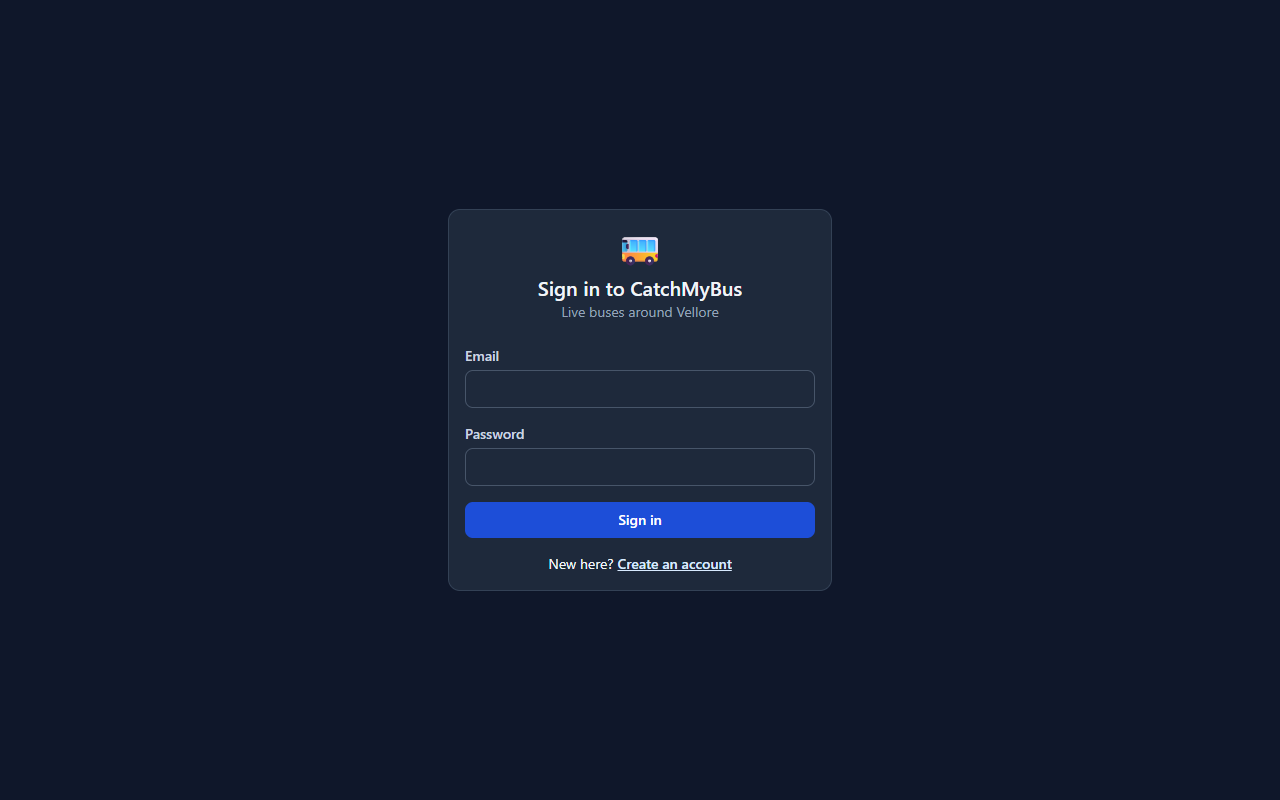
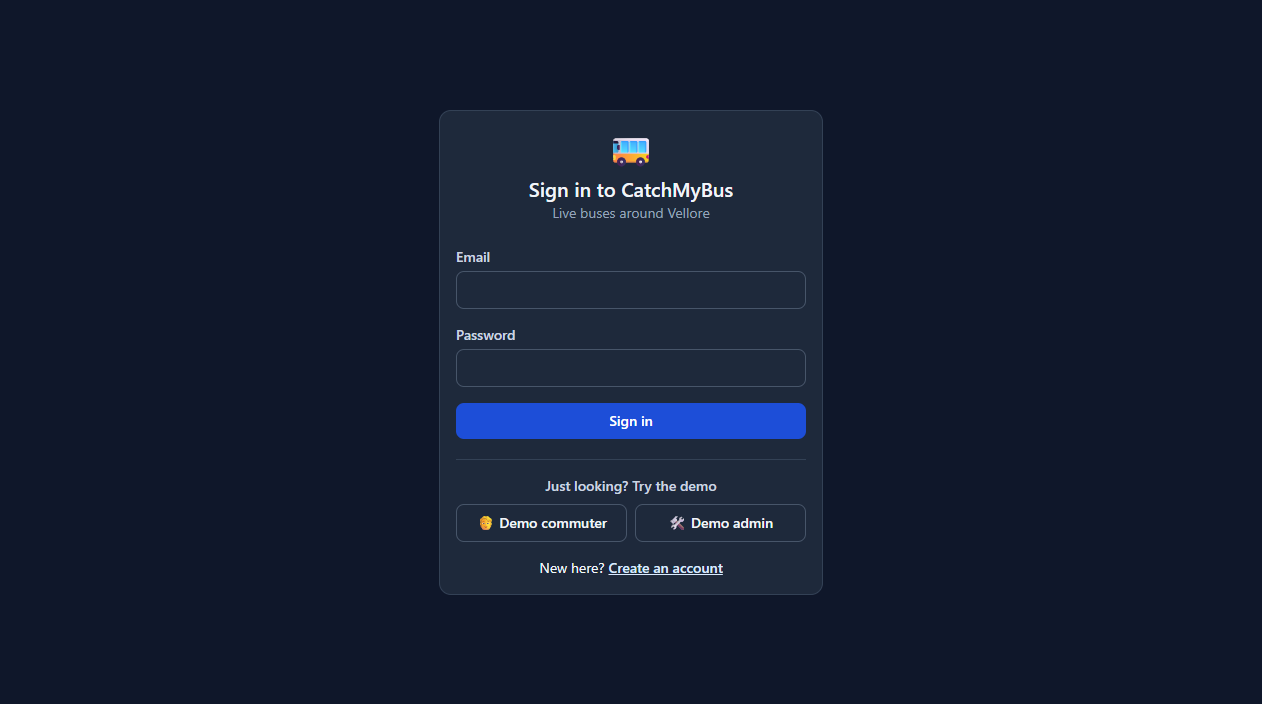
Add one-click demo sign-in
- Login page shows Demo commuter / Demo admin buttons when the server
  reports DEMO_LOGIN_ENABLED=true
- POST /auth/demo-login issues a token for the seeded accounts only,
  shares the login rate limit and returns 404 when disabled, so no
  password is ever shipped in the frontend
- Tests, README, DECISIONS and test report updated

diff --git a/frontend/src/pages/Login.tsx b/frontend/src/pages/Login.tsx
@@ -1,22 +1,27 @@
 import { useState, type FormEvent } from "react";
 import { Link, useNavigate } from "react-router-dom";
+import { useQuery } from "@tanstack/react-query";
+import { api } from "../lib/api";
 import { useAuth } from "../lib/auth";
+import type { User } from "../lib/types";
 
 /** One form for commuters and admins; the role comes back from the server (FR02, FR28). */
 export default function Login() {
-  const { login } = useAuth();
+  const { login, demoLogin } = useAuth();
   const navigate = useNavigate();
   const [email, setEmail] = useState("");
   const [password, setPassword] = useState("");
   const [error, setError] = useState<string | null>(null);
   const [busy, setBusy] = useState(false);
 
-  async function onSubmit(e: FormEvent) {
-    e.preventDefault();
+  // The server says whether one-click demo sign-in is switched on (DEMO_LOGIN_ENABLED).
+  const demo = useQuery({ queryKey: ["demo-login"], queryFn: () => api<{ enabled: boolean }>("/auth/demo"), retry: false });
+
+  async function signIn(attempt: () => Promise<User>) {
     setBusy(true);
     setError(null);
     try {
-      const user = await login(email, password);
+      const user = await attempt();
       navigate(user.role === "ADMIN" ? "/admin" : "/");
     } catch (err) {
       setError((err as Error).message);
@@ -24,6 +29,11 @@ export default function Login() {
       setBusy(false);
     }
   }
+
+  const onSubmit = (e: FormEvent) => {
+    e.preventDefault();
+    signIn(() => login(email, password));
+  };
 
   return (
     <AuthCard title="Sign in to CatchMyBus">
@@ -43,6 +53,21 @@ export default function Login() {
           {busy ? "Signing in…" : "Sign in"}
         </button>
       </form>
+      {demo.data?.enabled && (
+        <section aria-labelledby="demo-h" className="mt-5 border-t border-slate-200 pt-4 dark:border-slate-700">
+          <h2 id="demo-h" className="mb-2 text-center text-sm font-medium text-slate-600 dark:text-slate-300">
+            Just looking? Try the demo
+          </h2>
+          <div className="grid grid-cols-2 gap-2">
+            <button type="button" className="btn-ghost" disabled={busy} onClick={() => signIn(() => demoLogin("COMMUTER"))}>
+              🧑 Demo commuter
+            </button>
+            <button type="button" className="btn-ghost" disabled={busy} onClick={() => signIn(() => demoLogin("ADMIN"))}>
+              🛠 Demo admin
+            </button>
+          </div>
+        </section>
+      )}
       <p className="mt-4 text-center text-sm">
         New here? <Link to="/register" className="font-medium text-brand-600 underline dark:text-brand-100">Create an account</Link>
       </p>

diff --git a/frontend/src/lib/auth.tsx b/frontend/src/lib/auth.tsx
@@ -7,6 +7,7 @@ interface AuthState {
   loading: boolean;
   login: (email: string, password: string) => Promise<User>;
   register: (name: string, email: string, password: string, phone?: string) => Promise<User>;
+  demoLogin: (role: "COMMUTER" | "ADMIN") => Promise<User>;
   logout: () => void;
 }
 
@@ -40,6 +41,7 @@ export function AuthProvider({ children }: { children: ReactNode }) {
     login: (email, password) => post<TokenOut>("/auth/login", { email, password }).then(accept),
     register: (name, email, password, phone) =>
       post<TokenOut>("/auth/register", { name, email, password, phone: phone || null }).then(accept),
+    demoLogin: (role) => post<TokenOut>("/auth/demo-login", { role }).then(accept),
     logout: () => {
       tokenStore.set(null);
       setUser(null);

diff --git a/backend/app/routers/auth.py b/backend/app/routers/auth.py
@@ -7,7 +7,7 @@ from ..config import get_settings
 from ..db import get_db
 from ..models import User
 from ..ratelimit import RateLimiter
-from ..schemas import LoginIn, RegisterIn, TokenOut, UserOut
+from ..schemas import DemoLoginIn, LoginIn, RegisterIn, TokenOut, UserOut
 from ..security import create_token, get_current_user, hash_password, verify_password
 
 router = APIRouter(prefix="/auth", tags=["auth"])
@@ -35,6 +35,32 @@ def login(body: LoginIn, request: Request, db: Session = Depends(get_db)):
     user = db.scalar(select(User).where(User.email == body.email.lower()))
     if not user or not verify_password(body.password, user.password_hash):
         raise HTTPException(status.HTTP_401_UNAUTHORIZED, "Invalid email or password")
+    return TokenOut(access_token=create_token(user), user=UserOut.model_validate(user))
+
+
+@router.get("/demo")
+def demo_status():
+    """Tells the login page whether to show the one-click demo buttons."""
+    return {"enabled": get_settings().demo_login_enabled}
+
+
+@router.post("/demo-login", response_model=TokenOut)
+def demo_login(body: DemoLoginIn, request: Request, db: Session = Depends(get_db)):
+    """Sign in as a seeded demo account without typing a password.
+
+    Only works when DEMO_LOGIN_ENABLED=true, and only for the two seeded accounts, so
+    the frontend never needs to contain a password. Shares the login rate limit.
+    """
+    s = get_settings()
+    if not s.demo_login_enabled:
+        raise HTTPException(status.HTTP_404_NOT_FOUND, "Demo login is disabled")
+    ip = request.client.host if request.client else "unknown"
+    if not login_limiter.allow(ip):
+        raise HTTPException(status.HTTP_429_TOO_MANY_REQUESTS, "Too many login attempts, try again in a minute")
+    email = s.seed_admin_email if body.role == "ADMIN" else s.seed_commuter_email
+    user = db.scalar(select(User).where(User.email == email.lower(), User.role == body.role))
+    if user is None:
+        raise HTTPException(status.HTTP_404_NOT_FOUND, "Demo account not found - run `make seed`")
     return TokenOut(access_token=create_token(user), user=UserOut.model_validate(user))
 
 

diff --git a/backend/tests/test_auth.py b/backend/tests/test_auth.py
@@ -71,3 +71,22 @@ def test_api_prefix_is_stripped_for_vercel_routing(client, commuter_headers):
     assert client.get("/apix/health").status_code == 404  # only the exact prefix is stripped
     with client.websocket_connect("/api/ws/tracking?token=" + commuter_headers["Authorization"].split()[1]) as ws:
         assert ws.receive_json()["type"] == "positions"
+
+
+def test_demo_login_disabled_by_default(client):
+    assert client.get("/auth/demo").json() == {"enabled": False}
+    assert client.post("/auth/demo-login", json={"role": "COMMUTER"}).status_code == 404
+
+
+def test_demo_login_signs_in_seeded_accounts(client, monkeypatch):
+    from app.config import get_settings
+
+    monkeypatch.setattr(get_settings(), "demo_login_enabled", True)
+    assert client.get("/auth/demo").json() == {"enabled": True}
+    r = client.post("/auth/demo-login", json={"role": "COMMUTER"})
+    assert r.status_code == 200 and r.json()["user"]["email"] == "arun@mail.com"
+    admin = client.post("/auth/demo-login", json={"role": "ADMIN"}).json()
+    assert admin["user"]["role"] == "ADMIN"
+    h = {"Authorization": f"Bearer {admin['access_token']}"}
+    assert client.get("/admin/buses", headers=h).status_code == 200
+    assert client.post("/auth/demo-login", json={"role": "ROOT"}).status_code == 422

diff --git a/backend/app/config.py b/backend/app/config.py
@@ -37,6 +37,9 @@ class Settings(BaseSettings):
     delay_alert_threshold_min: float = 10.0
     alert_check_seconds: float = 5.0
 
+    # One-click "demo commuter / demo admin" sign-in on the login page. Off unless enabled.
+    demo_login_enabled: bool = False
+
     seed_admin_email: str = "admin@catchmybus.com"
     seed_admin_password: str = ""
     seed_commuter_email: str = "arun@mail.com"

diff --git a/backend/tests/conftest.py b/backend/tests/conftest.py
@@ -5,6 +5,7 @@ os.environ.update({
     "DATABASE_URL": "sqlite://",
     "SIMULATOR_ENABLED": "false",
     "SIM_RANDOM_DELAYS": "false",
+    "DEMO_LOGIN_ENABLED": "false",
     "JWT_SECRET": "test-secret-not-for-production",
     "SEED_ADMIN_PASSWORD": "AdminPass1",
     "SEED_COMMUTER_PASSWORD": "ArunPass1",

diff --git a/backend/app/schemas.py b/backend/app/schemas.py
@@ -31,6 +31,10 @@ class LoginIn(BaseModel):
     password: str
 
 
+class DemoLoginIn(BaseModel):
+    role: Literal["COMMUTER", "ADMIN"]
+
+
 class UserOut(ORM):
     id: int
     name: str

diff --git a/README.md b/README.md
@@ -138,18 +138,26 @@ the source code.
 These are the defaults in `.env.example` (`SEED_ADMIN_PASSWORD`, `SEED_COMMUTER_PASSWORD`).
 Both roles sign in through the same login form, and the server decides the role.
 
+**One-click demo sign-in.** With `DEMO_LOGIN_ENABLED=true` (the default in `.env.example`),
+the login page shows **Demo commuter** and **Demo admin** buttons, so no one has to type
+credentials during a demo. The buttons call `POST /auth/demo-login`, which only signs in
+the two seeded accounts. The frontend never contains a password. Set
+`DEMO_LOGIN_ENABLED=false` for any real deployment, and the buttons disappear.
+
+![Login with demo buttons](docs/screenshots/01-login.png)
+
 ## 5-minute demo script
 
 Open two browser windows side by side: **A** (normal) and **B** (private/incognito).
 
 | Time | Step | What to show |
 |---|---|---|
-| 0:00 | **A:** log in as `arun@mail.com`. | Live map: six buses glide along three coloured routes around Katpadi and Vellore. |
+| 0:00 | **A:** click **Demo commuter** on the login page (or sign in as `arun@mail.com`). | Live map: six buses glide along three coloured routes around Katpadi and Vellore. |
 | 0:30 | **A:** click **Use demo location** and open *Gandhi Nagar*. | Nearby stops within the radius, with live arrivals per bus. Click **Use my location** to show the privacy note and consent dialog first. |
 | 1:00 | **A:** click a bus marker. | Bus page: crowd badge, live speed and load, predicted delay, and an ETA per stop that falls every few seconds as the bus approaches. |
 | 1:30 | **A:** in the header, switch **Demo time** between *Weekday 08:30 (peak)* and *Weekday 14:00*. | The crowd badges change (more *High* at 08:30). The coloured dots on the map change too. |
 | 2:00 | **A:** on the bus page, click **Set alert**, pick a stop about 6-8 min away and set 5 min. | When the ETA reaches 5 min, the bell count goes up and a toast appears. |
-| 2:30 | **B:** log in as `admin@catchmybus.com`, go to **Admin → Live ops**, choose the same bus, 15 min, **Inject delay**. | Within about 5 s, window **A** gets a *delay* toast. The bus stops on the map and its ETA jumps by about 15 min. |
+| 2:30 | **B:** click **Demo admin**, go to **Admin → Live ops**, choose the same bus, 15 min, **Inject delay**. | Within about 5 s, window **A** gets a *delay* toast. The bus stops on the map and its ETA jumps by about 15 min. |
 | 3:15 | **A:** go back to the map, pick *Gandhi Nagar → Green Circle*, and click **Search routes**. | Best-route ranking with score bars (time, walking, crowding, delay risk). |
 | 3:45 | **A:** press **SOS** and then **Send SOS**. | Success state in **A**. In **B** the SOS appears in the live feed and as a toast. Click **Mark resolved**. |
 | 4:15 | **B:** go to **Fleet**, edit a bus's capacity, then open **Audit log**. | The edit shows with timestamp, admin id and the before/after change. Swagger also shows `/admin/*` returning **403** for a commuter token. |
@@ -159,7 +167,7 @@ Screenshots of every step are in [docs/screenshots](docs/screenshots).
 
 ## API summary
 
-All endpoints except `/health`, `/auth/register` and `/auth/login` need
+All endpoints except `/health` and the `/auth/register`, `/auth/login` and `/auth/demo*` endpoints need
 `Authorization: Bearer <JWT>`. `/admin/*` needs the ADMIN role and returns 403 for anyone
 else. List endpoints accept `?page=&size=`. The AI endpoints read an optional
 `X-Demo-Time` header: `08:30` means that time on a weekday, and `Sat 12:00` picks a day.
@@ -167,7 +175,7 @@ The full interactive spec is at `/docs`.
 
 | Area | Endpoints |
 |---|---|
-| Auth | `POST /auth/register`, `POST /auth/login` (rate limited), `GET /auth/me` |
+| Auth | `POST /auth/register`, `POST /auth/login` (rate limited), `GET /auth/me`, `GET /auth/demo`, `POST /auth/demo-login` (only when `DEMO_LOGIN_ENABLED=true`) |
 | Tracking | `GET /buses`, `GET /buses/live`, `GET /buses/{id}/location`, `WS /ws/tracking?token=`, `WS /ws/notifications?token=` |
 | Routes & stops | `GET /routes`, `GET /routes/all/detail`, `GET /routes/{id}`, `GET /routes/search?source=&destination=`, `GET /stops`, `GET /stops/nearby?lat=&lon=&radius_m=` |
 | ETA | `GET /eta?bus_id=&stop_id=`, `GET /eta/bus/{id}`, `GET /stops/{id}/arrivals` |
@@ -236,7 +244,7 @@ Most errors are between neighbouring classes. LOW and HIGH are almost never conf
 
 ## Testing and performance
 
-- **Backend:** `cd backend && pytest` runs **64 tests**. They cover auth and bcrypt,
+- **Backend:** `cd backend && pytest` runs **67 tests**. They cover auth and bcrypt,
   rate limiting, 403 role guards on every admin endpoint, the ETA math, the nearby-stop
   radius, route search, alert thresholds and hysteresis, audit logging (including rollback
   on failure), SOS, analytics and the AI scoring.

diff --git a/docs/TEST_REPORT.md b/docs/TEST_REPORT.md
@@ -4,7 +4,7 @@
 
 | Suite | Command | Result |
 |---|---|---|
-| Backend (pytest) | `cd backend && pytest` | **64 passed**, 0 failed (≈77 s) |
+| Backend (pytest) | `cd backend && pytest` | **67 passed**, 0 failed (≈99 s) |
 | Frontend (Vitest) | `cd frontend && npm test` | **6 passed**, 0 failed |
 | AI tests without trained models (heuristic fallback) | `MODELS_DIR=<empty dir> pytest tests/test_ai.py` | 8 passed |
 | Load test (Locust, 50 users, 60 s) | `make loadtest` | 2906 requests, **0 failures**, p95 /eta 20 ms, /buses 40 ms |
@@ -19,6 +19,7 @@
 |---|---|---|---|---|
 | FT01 | FR01 Register | Valid registration returns a JWT and creates a COMMUTER; duplicate email → 409; invalid input → 422 | `test_auth.py::test_register_creates_commuter_with_bcrypt_hash`, `test_register_duplicate_email_conflict`, `test_register_validates_input` | Pass |
 | FT02 | FR02 Login | Correct credentials → token and `/auth/me`; wrong password → 401; bad/missing token → 401 | `test_login_and_me`, `test_login_wrong_password`, `test_me_requires_valid_token` | Pass |
+| FT02a | Demo sign-in | Off by default (404); when enabled, signs in only the seeded commuter/admin; invalid role → 422 | `test_demo_login_disabled_by_default`, `test_demo_login_signs_in_seeded_accounts` | Pass |
 | FT03 | FR28 Role-based access | A commuter gets **403** on every `/admin` GET and write; anonymous → 401 | `test_admin.py::test_commuter_gets_403_on_admin_endpoints` (10 endpoints), `test_commuter_cannot_write_admin`, `test_anonymous_gets_401` | Pass |
 | FT04 | FR06/FR10 Live tracking | Buses move along the route, stay on the polyline and turn round at the ends; positions reach the cache | `test_geo_sim.py::test_simulator_moves_buses_and_writes_cache`, `test_simulator_stays_on_route_and_turns_around` | Pass |
 | FT05 | FR07 Route search | Katpadi → CMC finds R1; Gandhi Nagar → Green Circle finds R1 and R2 | `test_eta_alerts.py::test_route_search` | Pass |
@@ -64,5 +65,5 @@
 | Crowd differs at 08:30 vs 14:00 via the demo-time override | Pass (FT11) |
 | Commuter gets 403 on /admin; admin edits appear in the audit log with timestamp and admin id | Pass (FT03, NFT04) |
 | A commuter's SOS appears live in the admin console | Pass (FT15, NFT10) |
-| pytest passes with ≥ 20 tests across auth, roles, ETA math, radius, alert thresholds, audit | Pass (64 tests) |
+| pytest passes with ≥ 20 tests across auth, roles, ETA math, radius, alert thresholds, audit | Pass (67 tests) |
 | Zero hardcoded secrets | Pass: secrets and passwords come only from `.env` |

diff --git a/docs/DECISIONS.md b/docs/DECISIONS.md
@@ -20,3 +20,4 @@ Where the spec left room, I picked the simplest reasonable option and wrote it d
 | D14 | Crowd model inputs at inference: the route of the bus, the seq of its next stop, weather "clear" (or `?weather=rain`). Predictions are stored once a minute per bus for analytics. | Uses only data the system really has. |
 | D15 | Arrival subscriptions are one-shot: after the arrival alert they are deactivated. Delay alerts re-arm only once the delay drops below half the threshold. | Avoids notification spam. |
 | D16 | Backend Docker image is built from the repo root. | `scripts/generate_data.py` must be available inside the container to train the models on first start. |
+| D17 | One-click demo sign-in is a server endpoint (`POST /auth/demo-login {role}`) behind `DEMO_LOGIN_ENABLED`, not passwords pre-filled in the frontend. | Keeps "no hardcoded secrets": the browser bundle holds no credentials. It only reaches the two seeded accounts, shares the login rate limit, and is off unless enabled. |
